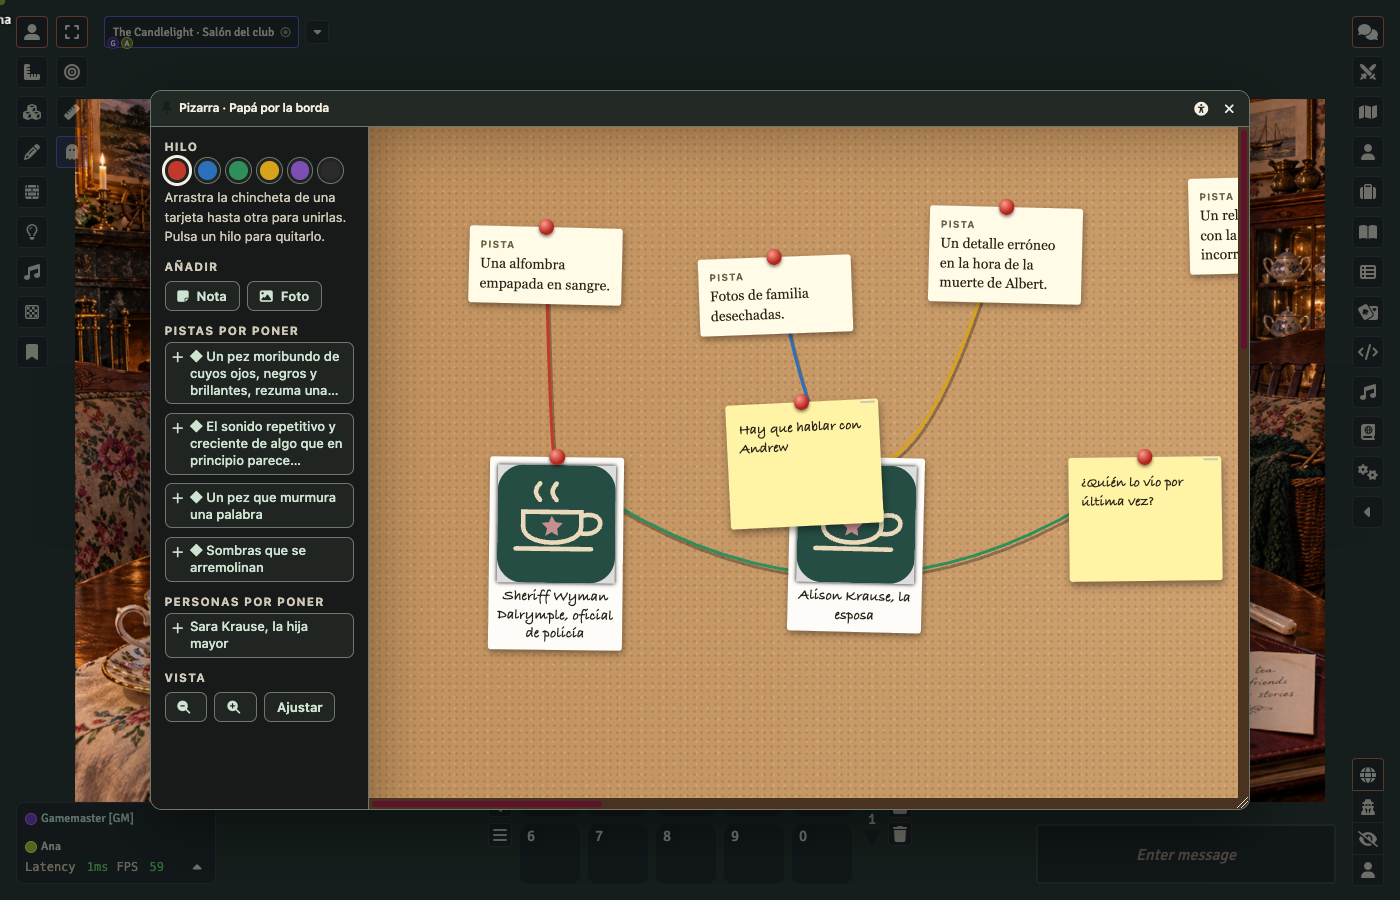
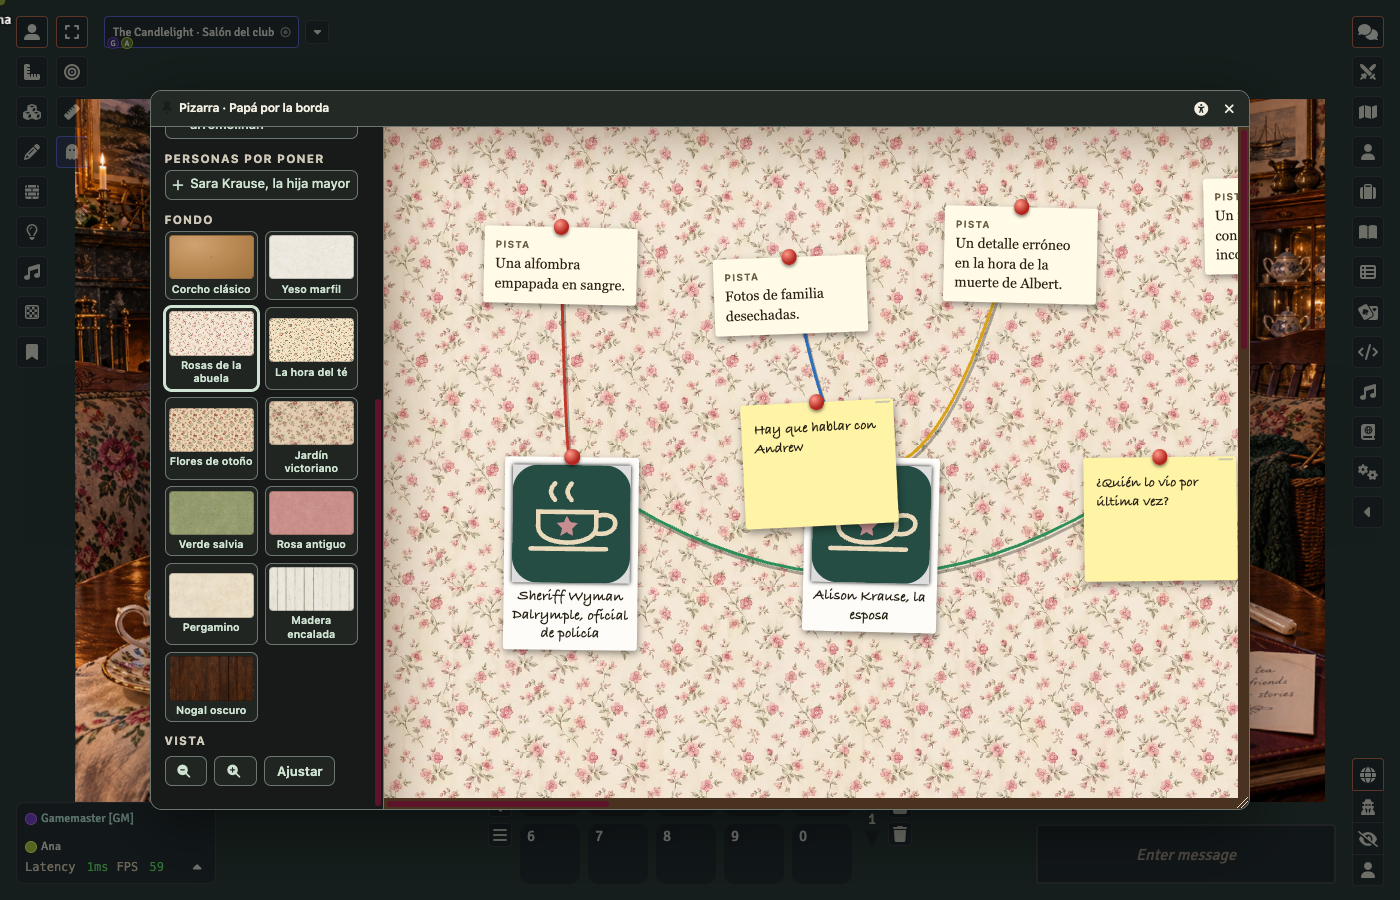
1.2.0: fondos intercambiables para la pizarra
- Panel de fondo con once ambientaciones, editable por cualquiera del grupo y sincronizado.

diff --git a/styles/system.css b/styles/system.css
@@ -864,7 +864,7 @@ body.bb-theme-amber .bb-cabecera { background: linear-gradient(110deg, #21160b, 
 
 /* ---------- Pizarra de investigación ---------- */
 .bb-pizarra .window-content { overflow: hidden; }
-.bb-pz { display: grid; grid-template-columns: 14.5em minmax(0, 1fr); height: 100%; min-height: 0; }
+.bb-pz { display: grid; grid-template-columns: 15.5em minmax(0, 1fr); height: 100%; min-height: 0; }
 .bb-pz-bandeja { overflow: auto; padding: 0.8em 0.9em 1em; background: var(--bb-paper); border-right: 1px solid var(--bb-line); scrollbar-width: thin; }
 .bb-pz-bandeja h3 { margin: 1em 0 0.35em; font: 700 0.78em/1.3 var(--bb-sans); letter-spacing: 0.1em; text-transform: uppercase; color: var(--bb-muted); }
 .bb-pz-bandeja h3:first-child { margin-top: 0; }
@@ -944,3 +944,12 @@ body.bb-theme-amber .bb-cabecera { background: linear-gradient(110deg, #21160b, 
 @keyframes bb-pz-rechazo { 25% { translate: -5px 0; } 75% { translate: 5px 0; } }
 body.bb-reduce-motion .bb-pz-item.rechazo { animation: none; }
 @container (max-width: 700px) { .bb-pz { grid-template-columns: 1fr; grid-template-rows: auto 1fr; } .bb-pz-bandeja { max-height: 9em; border-right: 0; border-bottom: 1px solid var(--bb-line); } }
+
+.bb-pz-lienzo[data-fondo]:not([data-fondo="corcho"]) { background: var(--fondo) 0 0 / 460px 460px; background-color: #d9cdb8; }
+.bb-pz-lienzo[data-fondo="nogal-oscuro"] { background-size: 520px 520px; }
+.bb-pz-vista:has([data-fondo="nogal-oscuro"]) { background: #2a160c; }
+.fondos { display: grid; grid-template-columns: 1fr 1fr; gap: 0.45em; }
+.bb-app .window-content .fondo-op { display: flex; flex-direction: column; align-items: stretch; gap: 0.25em; padding: 0.25em; text-align: center; font-weight: 600; }
+.bb-app .window-content .fondo-op.sel { border-color: var(--bb-accent); box-shadow: 0 0 0 2px var(--bb-accent); }
+.fondo-op .muestra { display: block; height: 3.4em; border-radius: 4px; border: 1px solid #0003; background: radial-gradient(#0000001c 1px, transparent 1.6px) 0 0 / 7px 7px, radial-gradient(ellipse at 30% 20%, #cfa270, #b78651 55%, #a0733f); background-size: cover; }
+.fondo-op .nombre { font-size: 0.82em; line-height: 1.25; }

diff --git a/README.md b/README.md
@@ -63,7 +63,7 @@ Crea un mundo con **Brindlewood Bay · El club de las Expertas**. Al entrar se a
 | Conspiración siniestra | Capas a 3 / 5 / 10 / 15 pistas (una menos con Fox Mulder) con **aviso privado** a la Guardiana al cruzar cada una |
 | Inicio de sesión | Tarjeta con los movimientos que se resuelven al empezar (Dale Cooper, Jim Rockford, Espantapájaros) |
 | Movimientos ocultistas | La Guardiana los define una vez y se entregan a todas las Expertas |
-| **Pizarra de investigación** | Corcho compartido con pistas, personas, notas y fotos unidas con hilos de colores; todas pueden moverlo a la vez sin pisarse |
+| **Pizarra de investigación** | Corcho compartido (u otros diez fondos: papeles pintados, yeso, maderas) con pistas, personas, notas y fotos unidas con hilos de colores; todas pueden moverlo a la vez sin pisarse |
 | Pausa para anuncios | Indicio, regla del 10–11 y generador de guiones con más de un millón de combinaciones |
 
 Seis misterios completos con sus expedientes privados, 49 personas de interés, los 19 movimientos expertos, los siete básicos y una guía rápida del sistema en el compendio de Reglas. Lo que el manual deja a criterio de la mesa (qué Condición afecta, qué consecuencia narrar) sigue en vuestras manos. Consulta la [matriz de automatizaciones](docs/REGLAS.md) y la [auditoría](docs/AUDITORIA.md).

diff --git a/CHANGELOG.md b/CHANGELOG.md
@@ -1,3 +1,7 @@
+# 1.2.0
+
+- **Fondos de pizarra intercambiables.** Un panel *Fondo* en la propia pizarra permite elegir entre once ambientaciones: Corcho clásico, Yeso marfil, Rosas de la abuela, La hora del té, Flores de otoño, Jardín victoriano, Verde salvia, Rosa antiguo, Pergamino, Madera encalada y Nogal oscuro. Cualquiera del grupo puede cambiarlo y todas lo ven al instante; se guarda en el caso.
+
 # 1.1.0
 
 - **Pizarra de investigación** en cada caso (botón *Pizarra* en el tablero y en el salón): un corcho donde el grupo coloca las pistas descubiertas, las personas de interés con su retrato y nombre, notas y fotos propias, y los une con hilos de colores. Cada tarjeta se mueve libremente, se puede quitar sin borrar la pista y cada hilo se quita pulsándolo. Es ambientación: no cambia ninguna regla.
